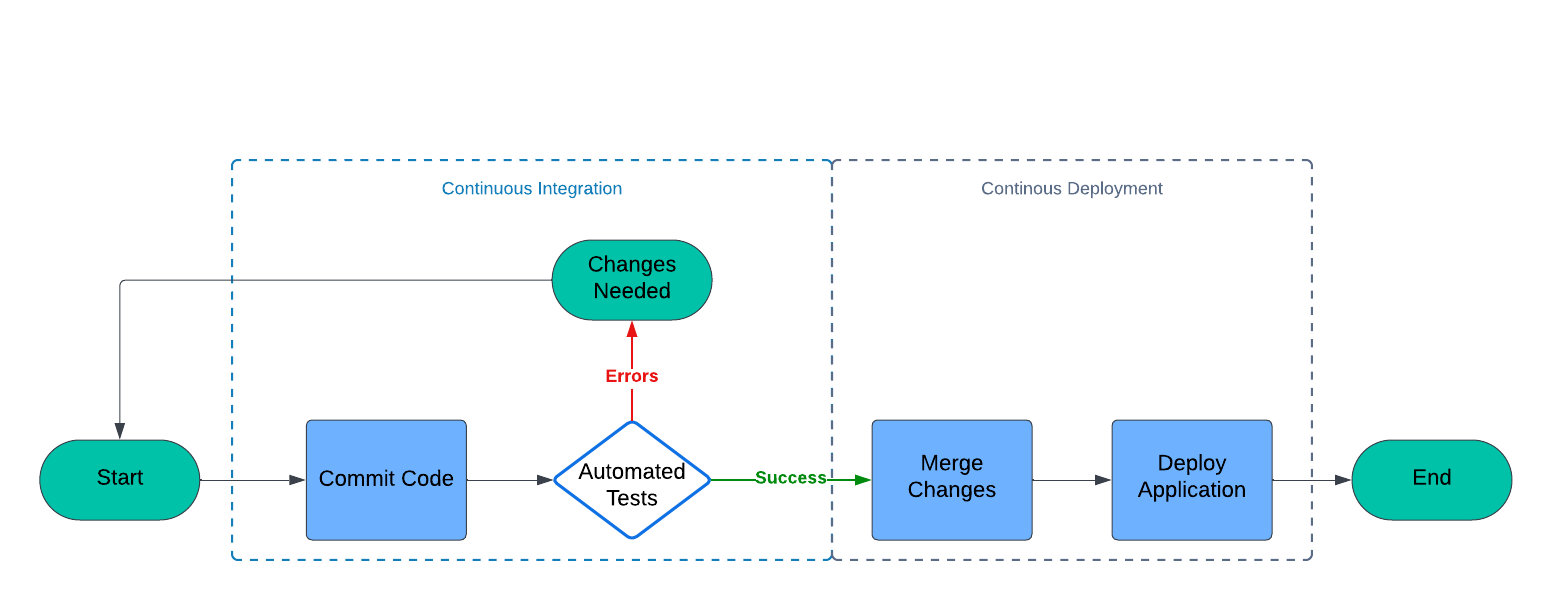
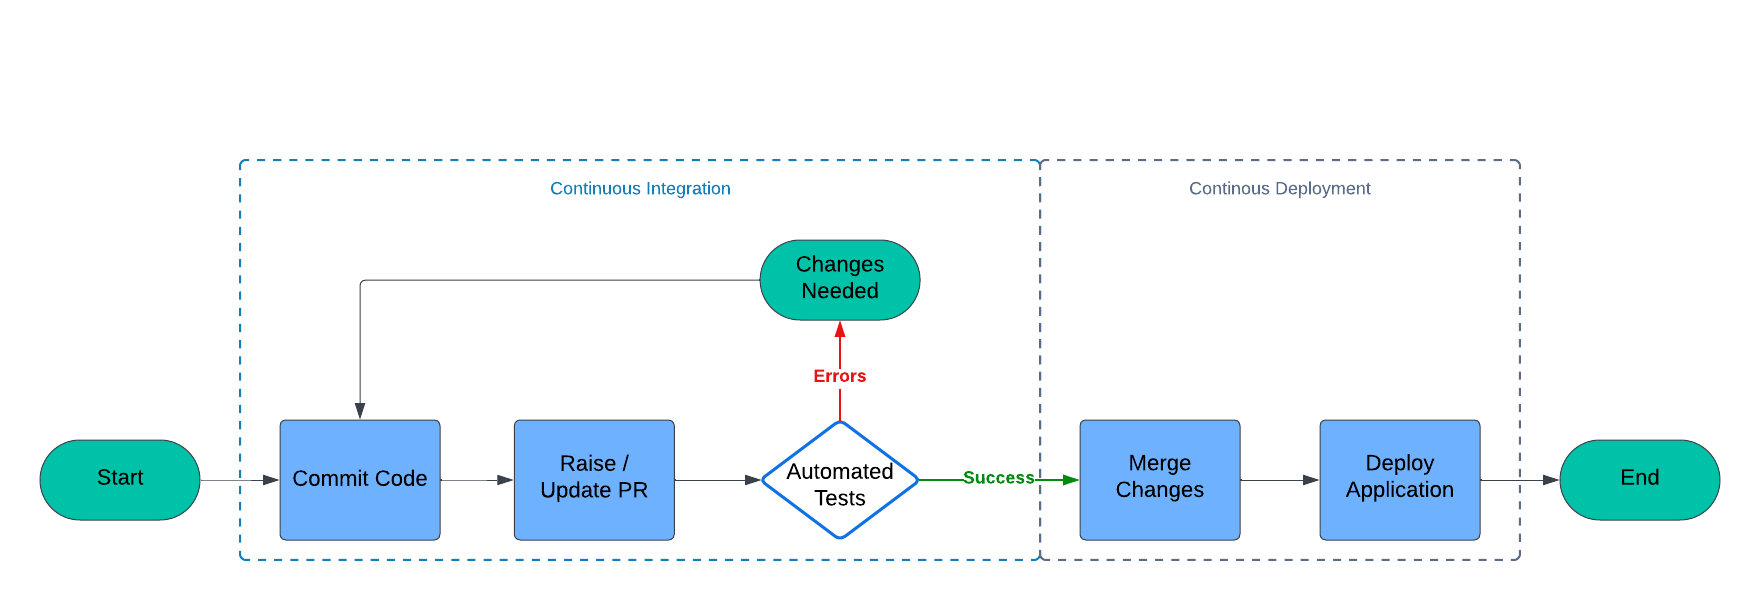
add more info in Readme

diff --git a/README.md b/README.md
@@ -1,52 +1,114 @@
-# sample-fargate-webapp
+# Sample Fargate Webapp
 
-Sample web app deployed as container on AWS via the Fargate service using Terraform.
+Sample web app deployed as container on AWS via ECS/Fargate using Terraform.
 
-## High Level Design
+* [High Level Design](#hld)
+* [Process Workflow](#pw)
+* [CI/CD Process](#cicd)
+  * [Continuous Integration](#ci)
+  * [Continuous Deployment](#cd)
+* [Areas of Improvement](#aoi)
+* [Requirements](#req)
+  * [Examples](#examples)
+    * [s3.tfbackend](#tfbackend)
+    * [input.auto.tfvars](#tfvars)
+* [Repo Structure](#repostruct)
+  * [application](#repoapp)
+  * [images](#repoimages)
+  * [infrastructure](#repoinfra)
+* [How-To](#howto)
+  * [Build Container Image](#howtobuild)
+  * [Deploy to AWS](#howtodeploy)
+* [Monitoring](#monitoring)
+* [Acknowledgements](#ack)
+
+## High Level Design <a name="hld"></a>
 
 ![high_level_diagram.png](images/high_level_diagram.png)
 
 Approved changes made to the application's source code trigger generation of a new
 docker container image stored in Elastic Container Registry.
-The latest image is then deployed as a Fargate task.
+The latest image is then used in a task definition for a Fargate service.
 End users can access the application by using a DNS record pointing to the
-Application Load Balancer deployed to route traffic to the Fargate task.
+Application Load Balancer deployed to route traffic to the Fargate service.
 
-## Process Workflow
+## Process Workflow <a name="pw"></a>
 
 ![development_workflow.png](images/development_workflow.png)
 
-Each time a developer commits code to the repo the CI process is triggered and
-runs a number of automated tests to make sure everything is ok with the changes.
+Each time a developer commits code to the repo as part of PR the CI process is 
+triggered and runs a number of automated tests to make sure everything is ok 
+with the changes both in terms of application code as well as in regards to the
+infrastructure.
 If errors occur the developer must fix it with new commits.
-If everything is ok PR can be opened to merge the changes into the main branch.
+If everything is ok the changes in the PR can be merged into the main branch.
 Once the PR is merged the CD process triggers to deploy new version of the app.
 
-## Areas of Improvement
+## CI/CD Process <a name="cicd"></a>
+
+Two github actions workflows are defined for the continuous integration and 
+the continuous delivery part  of the process. The CI workflow triggers only
+when a PR is raised or updated which means you can commit and push as much as
+you like but tests to your code are done once you want to merge these changes
+in the main branch. There is a rule set in the repo that does not allow you to
+merge if you have failed status checks.
+Once your tests are ok and your changes are approved and merged to the main branch
+the continuous deployment phase starts which builds and tags new container image
+that includes your code changes and then updates the infrastructure to use it.
+
+### Continuous Integration <a name="ci"></a>
+
+* Application Tests
+  * [Pylint](https://www.pylint.org/) - linter and static code analysis
+  * [Bandit](https://github.com/PyCQA/bandit) - vulnerability scanning
+* Infrastructure Tests
+  * [TFLint](https://github.com/terraform-linters/tflint) - linter and static code analysis
+  * [Tfsec](https://github.com/aquasecurity/tfsec) - security scanner
+
+### Continuous Deployment <a name="cd"></a>
+
+* Docker image build, tag & push to ECR
+* Terraform apply with newly built image
+
+## Areas of Improvement <a name="aoi"></a>
 
 * The infrastructure part of the code can be moved to a separate git repo so that
 this repo is only for the application's source code. 
-* There is probably better implementation of the services. For example the ECR registry
-should have policy and lifecycle set. Since we are emphasizing on the CI/CD process here
-things are kept rather simple.
+* There is probably better implementation of the services. For example the ECR 
+registry can be created as part of the infrastructure and have proper lifecycle 
+policy. Since we are emphasizing on the CI/CD process here things are kept rather simple.
+* If this was real world application deployment it should have been at least served
+via https which would imply owning a domain and having a TLS cert used in ACM.
+* Docker images can be created in one central account and can be additionally scanned
+by AWS Inspector.
+* Multiple accounts can be created for each environment necessary and deployments of 
+the central account's images can be done to each environment
 * The CI/CD process can be improved to one of the following:
   * everything can be moved inside AWS for seamless integration
   * if still using Github actions the AWS credentials can be done via OIDC provider  
-  instead of using programmatic access via key.
+  and role instead of using programmatic access via key and IAM user.
   * The CI tests can be bundled in a container so that they are maintained centrally
   outside the scope of this app repo.
+  * Environment-based deployments can be configured to first deploy in UAT env.
+  and then in prod
+  * Some policy-as-code tool (like OPA) can be implemented to control what changes 
+  are allowed to the infra or app code via custom rules.
+  * The deployment could implement blue/green or canary approach to validate if change
+  is ok and limit impact when errors are present
+  * Proper SAST/DAST/SCA tools like SonarQube, Burp Suite & OpenSCA can be implemented
+  for complete code evaluation
 
-## Requirements
+## Requirements <a name="req"></a>
 
 * AWS account
-* Secret / access Key pair for authentication as an IAM user
-* That IAM user should have sufficient permissions to deploy the infrastructure
-* Configured `tfbackend` file for the terraform code (so S3 bucket already created)
-* ECR Repo to store the container images
+* Secret / access Key pair for authentication as an IAM user (added as git repo secrets)
+and that IAM user should have sufficient permissions to deploy the infrastructure
+* The S3 bucket used for terraform state must already exist
+* The ECR Repo to store the container images must already exist
 
-### Examples for the required files:
+### Examples <a name="examples"></a>
 
-#### s3.tfbackend
+#### s3.tfbackend <a name="tfbackend"></a>
 
 ```hcl
 bucket = "my-unique-random-bucket-name"
@@ -54,16 +116,16 @@ key = "sample-fargate-webapp/terraform.tfstate"
 region = "eu-west-1"
 ```
 
-#### input.auto.tfvars
+#### input.auto.tfvars <a name="tfvars"></a>
 
 ```hcl
 region = "eu-west-1"
 env = "staging"
 ```
 
-## Repo Structure
+## Repo Structure <a name="repostruct"></a>
 
-### application
+### application <a name="repoapp"></a>
 
 The application folder contains:
 
@@ -71,18 +133,54 @@ The application folder contains:
 * the requirements / dependencies needed
 * the Dockerfile for the image creation
 
-### images
+### images <a name="repoimages"></a>
 
 The Lucid diagrams used in the README.
 
-### infrastructure
+### infrastructure <a name="repoinfra"></a>
 
 Contains the terraform code that creates the required AWS infrastructure 
 for the app to be deployed in.
 
-## How-To Deploy Manually
+## How-To <a name="howto"></a>
 
-1. `cd infrastructure`
-2. Assume role with sufficient permissions
-3. Adjust the `tfbackend` and `tfvars` files to work for you (i.e. change the bucket name)
-4. `terraform init -backend-config=s3.tfbackend && terraform apply`
+### Build Container Image <a name="howtobuild"></a>
+
+1. Make sure requirements are met (ECR repo, IAM role)
+2. `cd application`
+3. Assume the IAM role with sufficient permissions
+4. `aws ecr get-login-password --region <REGION> | docker login --username AWS --password-stdin <ACCOUNT>.dkr.ecr.<REGION>.amazonaws.com`
+5. `docker build -t flask-webapp .`
+6. `docker tag flask-webapp:latest <ACCOUNT>.dkr.ecr.<REGION>.amazonaws.com/flask-webapp:latest`
+7. `docker push <ACCOUNT>.dkr.ecr.<REGION>.amazonaws.com/flask-webapp:latest`
+
+### Deploy to AWS <a name="howtodeploy"></a>
+
+1. Make sure requirements are met (S3 bucket, ECR repo, IAM role)
+2. `cd infrastructure`
+3. Assume the IAM role with sufficient permissions
+4. Adjust the `tfbackend` and `tfvars` files to work for you (i.e. change the bucket name)
+5. `export TF_VAR_image_tag=latest`
+6. `terraform init -backend-config=s3.tfbackend && terraform apply`
+
+## Monitoring <a name="monitoring"></a>
+
+Once deployed this app can be monitored as follows:
+
+* Configure CloudWatch alarms for the Fargate service, ALB metrics
+* If DNS was setup for the app in Route53 then URL health checks can 
+also be configured
+* App data can be exported via XRay or OpenTelemetry for app tracing
+* Sidecar prometheus container can be added in the deployment so that
+data gathered can be then visualized and monitored via Grafana
+* Sidecar Fluent Bit container can be added to ingest app logs into
+Opensearch for analysis
+
+## Acknowledgements <a name="ack"></a>
+
+The following third-party terraform code by [Anton Babenko](https://www.antonbabenko.com/)
+was used for convenience:
+
+* [VPC](https://registry.terraform.io/modules/terraform-aws-modules/vpc/aws/latest)
+* [ALB](https://registry.terraform.io/modules/terraform-aws-modules/alb/aws/latest)
+* [ECS](https://registry.terraform.io/modules/terraform-aws-modules/ecs/aws/latest)
